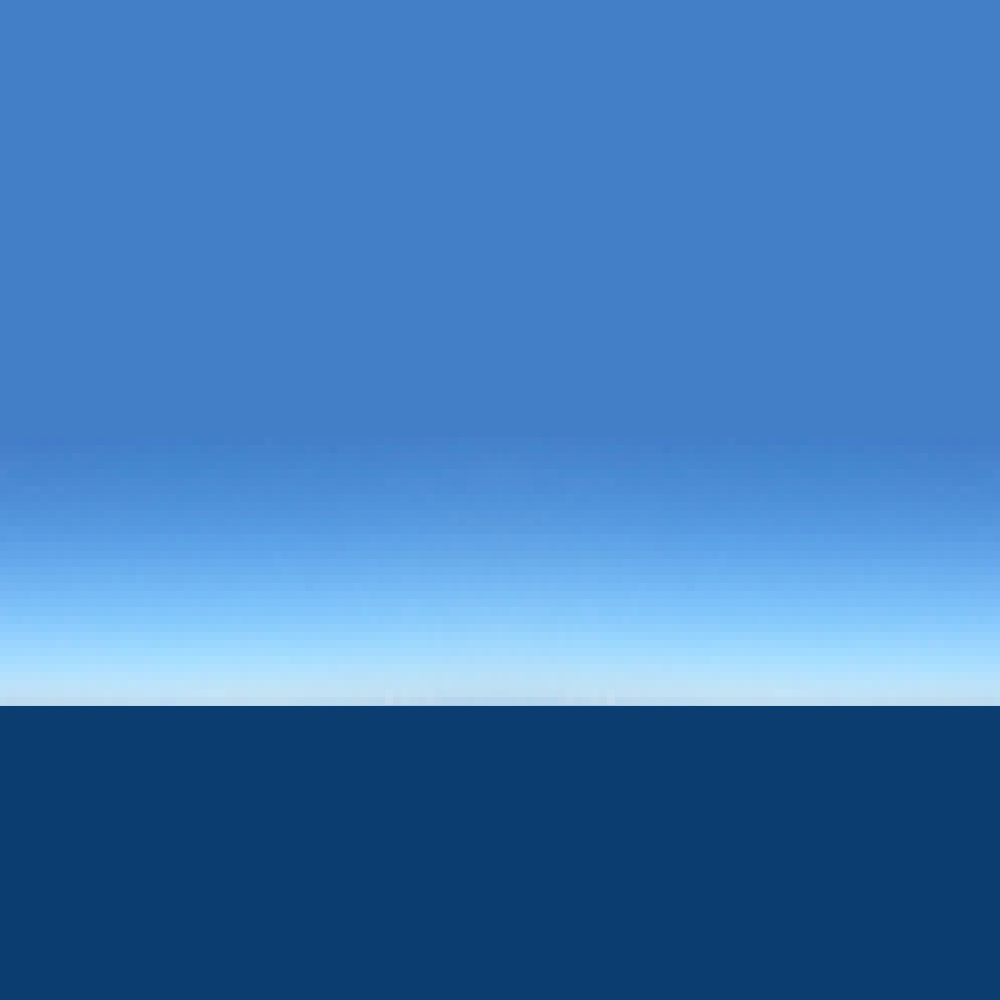
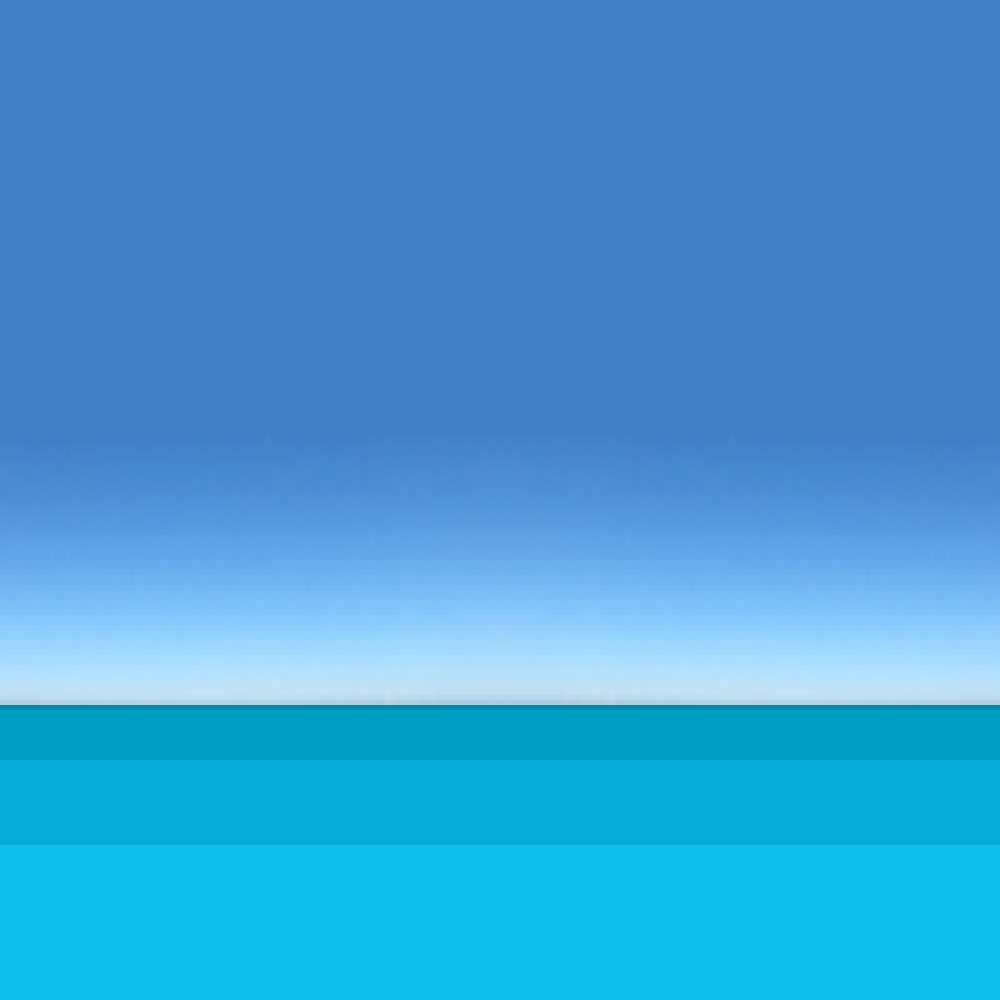
cutscene, now with a skip indicator.

Changed region(s): [[0.0, 0.682, 1.0, 1.0]]

diff --git a/scripts/cutsceneScripts/intro.js b/scripts/cutsceneScripts/intro.js
@@ -1,0 +1,217 @@
+//intro cutscene
+class Intro extends A3SoundEffects {
+
+  constructor(){
+    super({key: 'intro',active: false ,physics:{default:'arcade'}});
+
+    //store player data to be used on transition.
+    this.warpToX;
+    this.warpToY;
+    this.playerHealth;
+    this.playerSex;
+    this.playerLocation;
+    this.inventoryDataArray;
+    this.playerBestiaryData;
+    this.playerSkillsData;
+    this.playerSaveSlotData;
+    this.flagValues;
+    this.settings;
+    this.sceneSpeed = 2000;
+    this.tabPopUp = false;
+    this.tabPopUpCooldown = false;
+    
+    
+  }
+
+  preload(){
+    this.load.spritesheet('introScenes', 'assets/cutscenes/introSprite.png',{frameWidth: 393 , frameHeight: 393});
+    this.load.spritesheet('mobileButtons', 'assets/hudElements/mobileButtons.png',{frameWidth: 213, frameHeight: 213 });
+    this.load.image('skip', 'assets/hudElements/skip.png');
+      
+  }
+  create(){
+
+    //set ip intro cutscene sprite
+    this.SceneSprite = this.add.sprite(600, 400, "introScenes");
+    //set up intro cutscene animations.
+    this.SceneSprite.anims.create({ key: '1M', frames: this.SceneSprite.anims.generateFrameNames('introScenes', { start: 0, end: 0 }), frameRate: 1, repeat: -1 });
+    this.SceneSprite.anims.create({ key: '1F', frames: this.SceneSprite.anims.generateFrameNames('introScenes', { start: 1, end: 1 }), frameRate: 1, repeat: -1 });
+    this.SceneSprite.anims.create({ key: '2M', frames: this.SceneSprite.anims.generateFrameNames('introScenes', { start: 2, end: 2 }), frameRate: 1, repeat: -1 });
+    this.SceneSprite.anims.create({ key: '2F', frames: this.SceneSprite.anims.generateFrameNames('introScenes', { start: 3, end: 3 }), frameRate: 1, repeat: -1 });
+    this.SceneSprite.anims.create({ key: '3M', frames: this.SceneSprite.anims.generateFrameNames('introScenes', { start: 4, end: 4 }), frameRate: 1, repeat: -1 });
+    this.SceneSprite.anims.create({ key: '3F', frames: this.SceneSprite.anims.generateFrameNames('introScenes', { start: 4, end: 4 }), frameRate: 1, repeat: -1 });
+    this.SceneSprite.anims.create({ key: '4M', frames: this.SceneSprite.anims.generateFrameNames('introScenes', { start: 5, end: 5 }), frameRate: 1, repeat: -1 });
+    this.SceneSprite.anims.create({ key: '4F', frames: this.SceneSprite.anims.generateFrameNames('introScenes', { start: 6, end: 6 }), frameRate: 1, repeat: -1 });
+    this.SceneSprite.anims.create({ key: '5M', frames: this.SceneSprite.anims.generateFrameNames('introScenes', { start: 7, end: 7 }), frameRate: 1, repeat: -1 });
+    this.SceneSprite.anims.create({ key: '5F', frames: this.SceneSprite.anims.generateFrameNames('introScenes', { start: 8, end: 8 }), frameRate: 1, repeat: -1 });
+    this.SceneSprite.anims.create({ key: '6M', frames: this.SceneSprite.anims.generateFrameNames('introScenes', { start: 9, end: 9 }), frameRate: 1, repeat: -1 });
+    this.SceneSprite.anims.create({ key: '6F', frames: this.SceneSprite.anims.generateFrameNames('introScenes', { start: 10, end: 10 }), frameRate: 1, repeat: -1 });
+    this.SceneSprite.anims.create({ key: '7M', frames: this.SceneSprite.anims.generateFrameNames('introScenes', { start: 11, end: 11 }), frameRate: 1, repeat: -1 });
+    this.SceneSprite.anims.create({ key: '7F', frames: this.SceneSprite.anims.generateFrameNames('introScenes', { start: 12, end: 12 }), frameRate: 1, repeat: -1 });
+    this.SceneSprite.anims.create({ key: '8M', frames: this.SceneSprite.anims.generateFrameNames('introScenes', { start: 13, end: 13 }), frameRate: 1, repeat: -1 });
+    this.SceneSprite.anims.create({ key: '8F', frames: this.SceneSprite.anims.generateFrameNames('introScenes', { start: 14, end: 14 }), frameRate: 1, repeat: -1 });
+    this.SceneSprite.anims.create({ key: '9M', frames: this.SceneSprite.anims.generateFrameNames('introScenes', { start: 15, end: 15 }), frameRate: 1, repeat: -1 });
+    this.SceneSprite.anims.create({ key: '9F', frames: this.SceneSprite.anims.generateFrameNames('introScenes', { start: 15, end: 15 }), frameRate: 1, repeat: -1 });
+    this.SceneSprite.anims.create({ key: '10M', frames: this.SceneSprite.anims.generateFrameNames('introScenes', { start: 16, end: 16 }), frameRate: 1, repeat: -1 });
+    this.SceneSprite.anims.create({ key: '10F', frames: this.SceneSprite.anims.generateFrameNames('introScenes', { start: 17, end: 17 }), frameRate: 1, repeat: -1 });
+    this.SceneSprite.visible = false;
+    this.SceneSprite.setScale(1.8);
+
+    //set up cutscene text box
+    this.keyW = this.input.keyboard.addKey(Phaser.Input.Keyboard.KeyCodes.W);
+    this.sceneTextBox = new textBox(this,600-40,800,'charBubble');
+    this.sceneTextBox.setScale(1.3);
+    this.sceneTextBox.activateTitleScreenTextbox(
+      this,//scene
+      false,// is the text box visible?
+      [],// sets profile array
+      ""//text sent to the text box.
+    );
+    this.sceneTextBox.setTextboxBackground("blank");
+    this.sceneTextBox.textTint = 0x9d00e0;
+
+    //make npc to handle our text box logic
+    this.npcGameover = new npc(this, 0, 0, 'hitbox');
+
+    //grab save datay so we know what sex the player is.
+    this.loadGamePlayData();
+
+    //set the sex char.
+    if(this.playerSex === 0){
+      this.sexChar = 'M';
+    }else{
+      this.sexChar = 'F';
+    }
+
+    //generate scene sprite display array
+    this.displayArrayPosition = 0;
+    this.displayArray = ["B"];
+
+    //loop to generate the scene sprite order based on the player sex.
+    for(let counter = 1; counter < 10; counter++){
+      this.displayArray.push(""+counter+this.sexChar);
+    }
+    this.displayArray.push("B");
+    this.displayArray.push(""+10+this.sexChar);
+
+    //click event anywhere on screen. 
+    this.input.on('pointerdown', () => {
+      if(this.tabPopUp === false){
+        this.tabPopUp = true;
+
+        this.skipIndicator.visible = true;
+
+        let that = this;
+        setTimeout(function () {
+          that.tabPopUp = false;
+          that.skipIndicator.visible = false;
+        }, 3000);
+      }
+    },this);
+
+    //when player dies the prompt to skip animations need to pop up.
+    this.skipIndicator = this.add.sprite(1140, 840,'skip').setInteractive(this.input.makePixelPerfect());
+    this.skipIndicator.setScale(1/3);
+    this.skipIndicator.visible = false;
+    this.skipIndicatorIsPressed = false;
+    this.skipIndicator.setScrollFactor(0);
+
+    //if tabtoskip is clicked then 
+    this.skipIndicator.on('pointerdown', function (pointer) {
+
+      //for loop looks through all the looping music playing within a given scene and stops the music.
+      for(let counter = 0; counter < this.sound.sounds.length; counter++){
+          this.sound.get(this.sound.sounds[counter].key).stop();
+      }
+      
+      this.scene.stop();
+
+      this.scene.start('gameHud');
+
+      let that = this;
+      setTimeout(function () {
+          that.scene.start("tutorialBeachLevel");
+      }, 100);
+
+    },this);
+
+    //calls our function to define the fadein complete function.
+    this.fadeInFunction();
+
+    //dramatic fade in.
+    this.cameras.main.fadeIn(500, 0, 0, 0);
+  
+  }
+
+
+  update(){
+   
+  }
+
+  //function to cause fade in and fade out correctly
+  fadeInFunction(){
+
+    //progress dialogue node
+    this.npcGameover.nodeHandler("cutscenes","intro","intro1");
+
+    //if the array character is 'B' for blank
+    if(this.displayArray[this.displayArrayPosition] === "B"){
+
+      //hide the scene sprite
+      this.SceneSprite.visible = false;
+
+    //otherwise display animation
+    }else{
+
+      this.SceneSprite.visible = true;
+      this.SceneSprite.anims.play(""+this.displayArray[this.displayArrayPosition] ,true);
+    }
+
+    //increment array position by 1
+    this.displayArrayPosition++;
+
+    //after fading in then out the camera object loses its fade in fade out function.
+    //so by calling this function we can re apply its fade in and fade out functionality.
+    this.cameras.main.once(Phaser.Cameras.Scene2D.Events.FADE_IN_COMPLETE, (cam, effect) => {   
+      let that = this;   
+      setTimeout(function () {
+        //call fade out after calling fadeoutfunction to set up the camera object fadeout function
+        that.fadeOutFunction();
+
+        that.cameras.main.fadeOut(2000, 0, 0, 0);
+      }, 3000);
+    });
+  }
+
+  //fade out function to fade out the cutscene pages, ad then load the intro level
+  fadeOutFunction(){
+    this.cameras.main.once(Phaser.Cameras.Scene2D.Events.FADE_OUT_COMPLETE, (cam, effect) => {
+
+      //if the position is below 12 then fade back in. 
+      if(this.displayArrayPosition < 12){
+
+        this.fadeInFunction();
+        this.cameras.main.fadeIn(2000, 0, 0, 0);
+
+      //otherwise at end of fadeout, load next scene.
+      }else{
+        
+        //for loop looks through all the looping music playing within a given scene and stops the music.
+        for(let counter = 0; counter < this.sound.sounds.length; counter++){
+            this.sound.get(this.sound.sounds[counter].key).stop();
+        }
+        
+        this.scene.stop();
+
+        this.scene.start('gameHud');
+
+        let that = this;
+        setTimeout(function () {
+            that.scene.start("tutorialBeachLevel");
+        }, 100);
+
+      }
+    });
+  }
+}
+

diff --git a/scripts/npcScripts/npcDialogue.js b/scripts/npcScripts/npcDialogue.js
@@ -27,19 +27,19 @@ const npcDialogue = {
                         "children":["node5"]
                     },
                     "node5":{
-                        "dialogue": "A dangerous stretch of ocean close to home, Where many have disappeared Over the past two centuries...",
+                        "dialogue": "Where many have disappeared Over the past two centuries...",
                         "profile":"",
                         "textvoice":"lightPiano",
                         "children":["node6"]
                     },
                     "node6":{
-                        "dialogue": "On the edges of this sea, it's calm and peaceful.",
+                        "dialogue": "On the edges of this sea, it is calm and peaceful.",
                         "profile":"",
                         "textvoice":"lightPiano",
                         "children":["node7"]
                     },
                     "node7":{
-                        "dialogue": "But stray towards the center and a powerful Storm always seems to be brewing...",
+                        "dialogue": "But Towards the center a powerful Storm always seems to be brewing...",
                         "profile":"",
                         "textvoice":"lightPiano",
                         "children":["node8"]
@@ -51,7 +51,25 @@ const npcDialogue = {
                         "children":["node9"]
                     },
                     "node9":{
-                        "dialogue": "But you believe there's something special hiding Past the malestrom... something worth Risking your life for...",
+                        "dialogue": "But you believe there is something special hiding Past the malestrom... ",
+                        "profile":"",
+                        "textvoice":"lightPiano",
+                        "children":["node10"]
+                    },
+                    "node10":{
+                        "dialogue": "something worth Risking your life for...",
+                        "profile":"",
+                        "textvoice":"lightPiano",
+                        "children":["node11"]
+                    },
+                    "node11":{
+                        "dialogue": "...",
+                        "profile":"",
+                        "textvoice":"lightPiano",
+                        "children":["node12"]
+                    },
+                    "node12":{
+                        "dialogue": "...",
                         "profile":"",
                         "textvoice":"lightPiano",
                         "children":[]

diff --git a/scripts/sceneScripts/sceneHeads/titleScreen.js b/scripts/sceneScripts/sceneHeads/titleScreen.js
@@ -46,6 +46,8 @@ class titleScreen extends A3SoundEffects {
         this.flagValues;
         this.settings;
 
+        this.newGameActivated = false;
+
         //array to check if there is a file defined 
         this.savedFileArray = [false,false,false];
 
@@ -169,14 +171,27 @@ class titleScreen extends A3SoundEffects {
                 console.log("now stoping this scene",);
                 this.scene.stop();
 
-                console.log("now loading game ui",);
-                this.scene.start('gameHud');
-
+                if(this.newGameActivated === false){
+                    console.log("now loading game ui",);
+                    this.scene.start('gameHud');
+    
+                }
+                
                 let that = this;
                 setTimeout(function () {
-                    console.log("now Loading main scene ",that.playerLocation);
-                    that.scene.start(that.playerLocation);
-                    //startTimeTest("titlescreen load time.");
+                    //if we are making a new game
+                    if(that.newGameActivated === true){
+                        //send the player through the intro cutscene
+                        that.scene.start("intro");
+                    //otherwise load there saved location. 
+                    }else{
+
+                        console.log("now Loading main scene ",that.playerLocation);
+                        that.scene.start(that.playerLocation);
+
+                    }
+
+                //startTimeTest("titlescreen load time.");
                 }, 100);
             })
 

diff --git a/index.html b/index.html
@@ -159,6 +159,10 @@
   <script src="scripts/npcScripts/npc.js"></script>
   <script src="scripts/npcScripts/lunalyst.js"></script>
   <script src="scripts/npcScripts/istara.js"></script>
+
+  <script src="scripts/cutsceneScripts/intro.js"></script>
+
+
   
   <script src="lib/vendors/AnimatedTiles.js"></script>
 
@@ -204,6 +208,7 @@
           new G2levelSetupFunctions,
           new G1PlayerInputs,
           new titleScreen,
+          new Intro,
           new gameHud,
           new gameOver,
           new devRoom1,

diff --git a/scripts/titleScripts/femaleIcon.js b/scripts/titleScripts/femaleIcon.js
@@ -52,6 +52,9 @@ class femaleIcon extends Phaser.Physics.Arcade.Sprite{
                 settings:null
               };
 
+            //sets value to true, so scene knows to send the player through the intro cutscene
+            that.scene.newGameActivated = true;
+
             that.scene.makeSaveFile(playerDataObject,1,that.scene.tempNewGameSlotID);
             //saves data to the temp data location
             that.scene.saveGame(playerDataObject);

diff --git a/scripts/titleScripts/maleIcon.js b/scripts/titleScripts/maleIcon.js
@@ -51,6 +51,9 @@ class maleIcon extends Phaser.Physics.Arcade.Sprite{
                 settings:null
               };
 
+            //sets value to true, so scene knows to send the player through the intro cutscene
+            that.scene.newGameActivated = true;
+
             that.scene.makeSaveFile(playerDataObject,0,that.scene.tempNewGameSlotID);
             //saves data to the temp data location
             that.scene.saveGame(playerDataObject);
